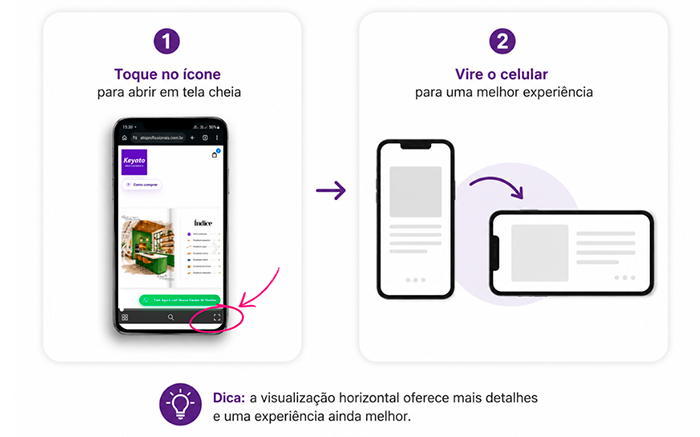
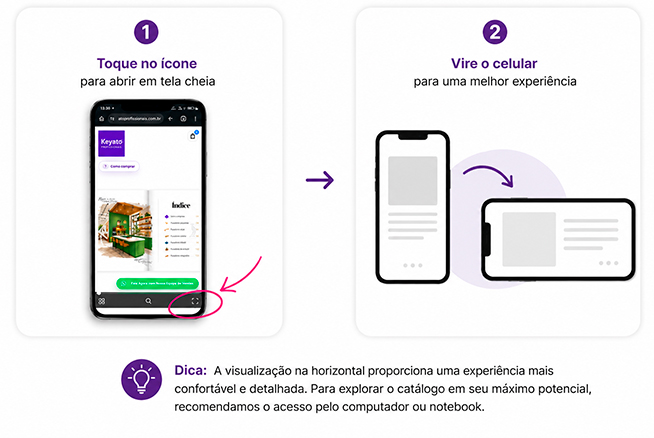
Add files via upload

Changed region(s): [[0.1223, 0.0297, 0.9174, 0.9817], [0.4587, 0.2975, 0.9786, 0.6842], [0.581, 0.0297, 0.8869, 0.238]]

diff --git a/como-comprar.html b/como-comprar.html
@@ -592,21 +592,22 @@
     }
 
     .mobile-tip-header {
-      display: block;
-      margin-bottom: 24px;
+      display:block;
+      margin-bottom:22px;
     }
 
     .mobile-tip-title {
       font-size: clamp(38px, 4.5vw, 68px);
       line-height: .95;
-      margin: 0 0 18px;
+      margin: 0;
     }
 
     .mobile-tip-text {
-      max-width: 640px;
+      max-width: 100%;
+      margin-top:14px;
       color: var(--muted);
       font-size: 16px;
-      line-height: 1.65;
+      line-height: 1.6;
       margin: 0;
     }
 
@@ -651,9 +652,12 @@
       .note { display: none; }
       .mini-preview img { height: 170px; }
       .mobile-tip-card { padding: 16px; border-radius: 24px; }
-      .mobile-tip-title { font-size: 42px; margin-bottom: 14px; }
-      .mobile-tip-text { font-size: 15px; line-height: 1.65; }
-      .mobile-tip-image { border-radius: 18px; }
+      .mobile-tip-title { font-size: 42px; }
+      .mobile-tip-text { font-size: 15px; }
+      .mobile-tip-image {
+        border-radius:18px;
+        overflow-x:auto;
+      }
     }
   
     @media (max-width: 920px) and (orientation: landscape) {